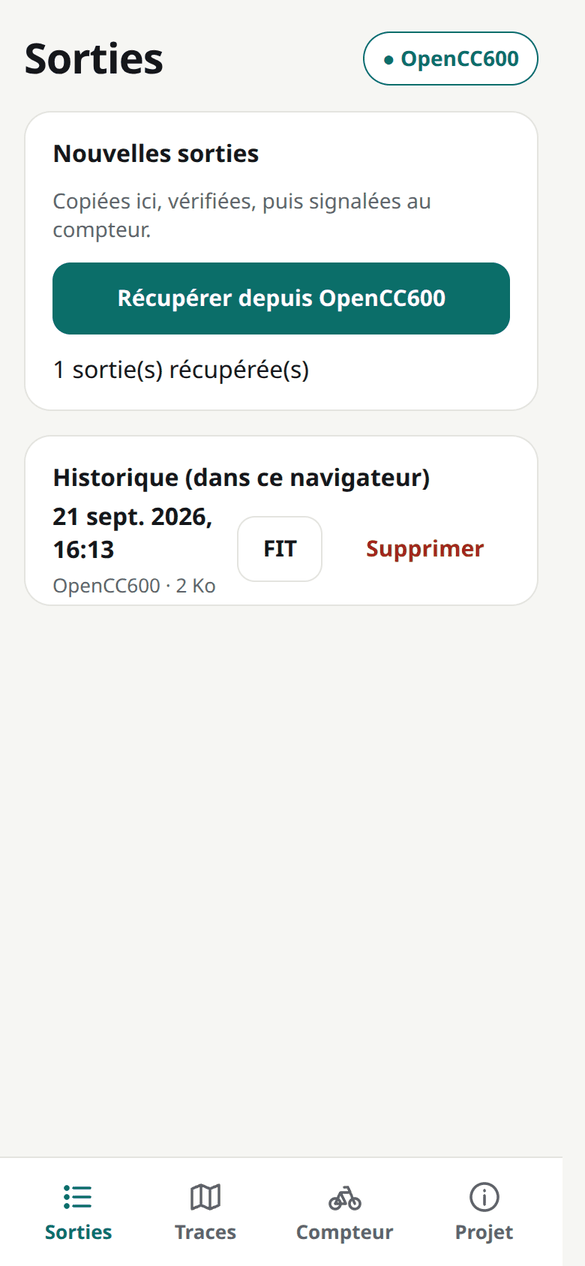
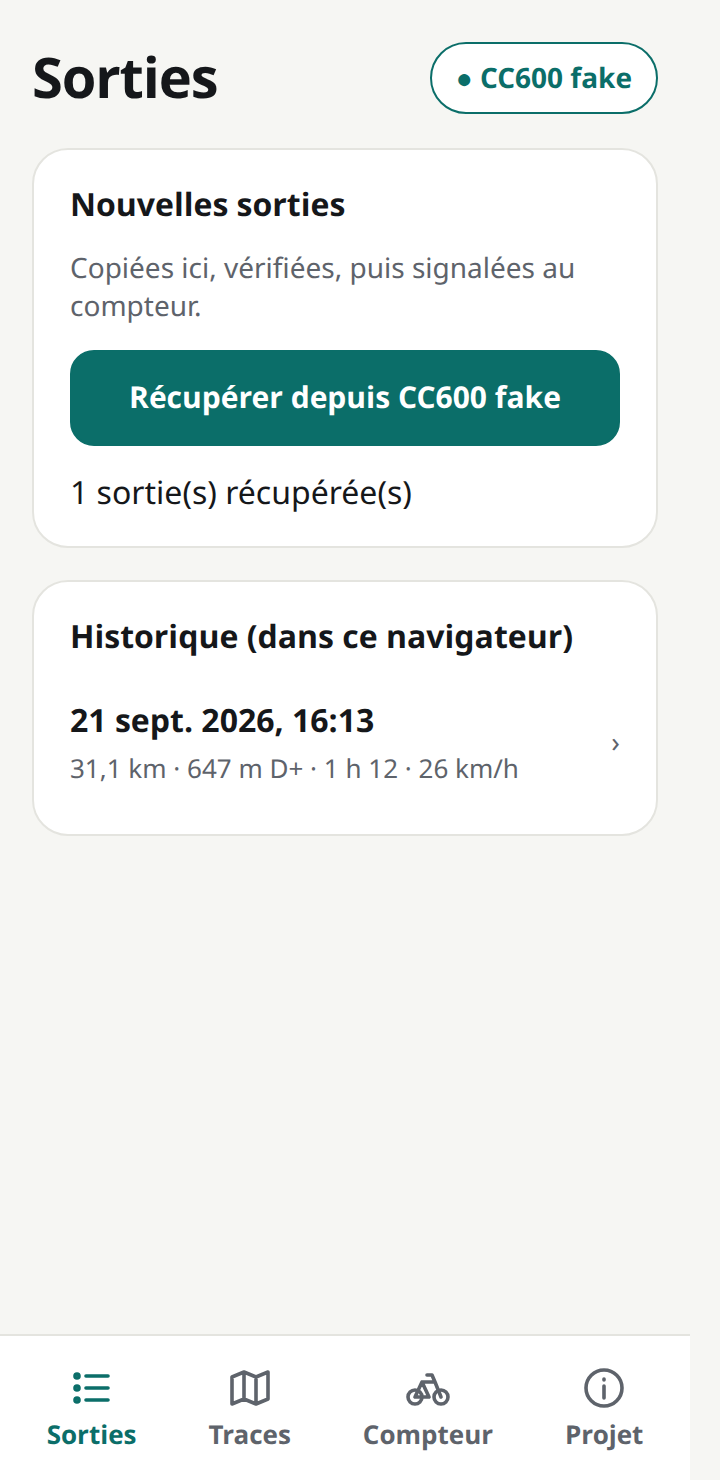
README: a ride's screen, the rides with their summary, FTP and zones in the settings

diff --git a/README.md b/README.md
@@ -12,6 +12,7 @@ Musette is first built to use and share the [OpenCC600](https://github.com/enava
   <img src="docs/screenshots/route.png" width="200" alt="A route: map, elevation profile and detected climbs">
   <img src="docs/screenshots/map.png" width="200" alt="The route on a full-screen map, climbs in orange">
   <img src="docs/screenshots/rides.png" width="200" alt="Rides downloaded from the bike computer">
+  <img src="docs/screenshots/ride.png" width="200" alt="A ride: its summary, map, elevation profile and climbs">
   <img src="docs/screenshots/device.png" width="200" alt="The connected bike computer and its settings groups">
 </p>
 
@@ -29,7 +30,7 @@ Open a GPX (from Komoot, RideWithGPS, BRouter…): Musette shows it on a map wit
 
 <img src="docs/screenshots/settings.png" width="200" align="right" alt="Display settings of a CC600">
 
-Change the bike computer's settings from the phone: display, backlight, ride, navigation, sounds, energy, time zone. Each change is written to the device at once. On the CC600, the paired sensors (heart rate, speed and cadence, power; ANT+ and Bluetooth) are listed too.
+Change the bike computer's settings from the phone: display, backlight, ride, navigation, sounds, energy, time zone. On the CC600, the ride settings include the FTP and maximum heart rate, and the power and heart rate zones as percentages of them (Coggan's 7 power zones and 5 heart rate zones by default); the device then shows the current zone. Each change is written to the device at once. On the CC600, the paired sensors (heart rate, speed and cadence, power; ANT+ and Bluetooth) are listed too.
 
 ### Supported bike computers
 
